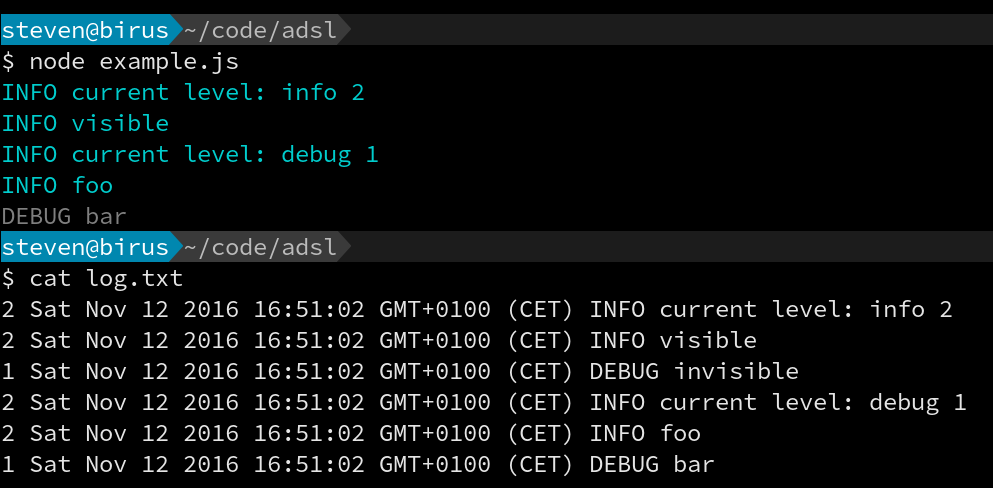
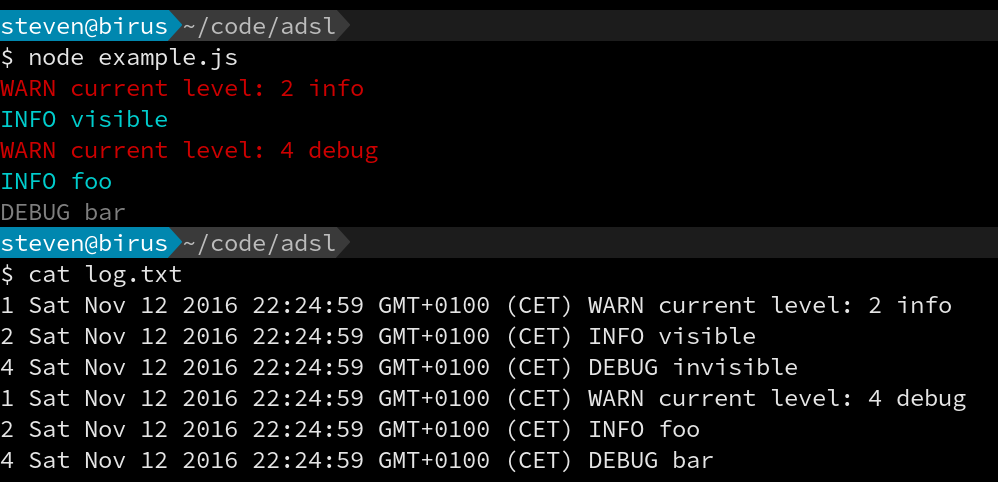
Update example

Changed region(s): [[0.0, 0.0, 1.0, 0.5913], [0.0, 0.5913, 0.9678, 0.778], [0.0, 0.8091, 0.9678, 0.9959]]

diff --git a/example.js b/example.js
@@ -34,13 +34,13 @@ const log = adsl({
   ]
 })
 
-log.info('current level:', log.level, log.levelIndex)
+log.warn('current level:', log.levelIndex, log.level)
 log.info('visible')
 log.debug('invisible')
 
 log.level = 'debug'
 
-log.info('current level:', log.level, log.levelIndex)
+log.warn('current level:', log.levelIndex, log.level)
 log.info('foo')
 log.debug('bar')
 

diff --git a/README.md b/README.md
@@ -58,7 +58,7 @@ var logWriteStream = fs.createWriteStream('log.txt')
 
 const log = adsl({
   level: 'info',
-  prefix(level) {
+  prefix (level) {
     return level.toUpperCase()
   },
   transport: [
@@ -74,13 +74,13 @@ const log = adsl({
   ]
 })
 
-log.info('current level:', log.level, log.levelIndex)
+log.warn('current level:', log.levelIndex, log.level)
 log.info('visible')
 log.debug('invisible')
 
 log.level = 'debug'
 
-log.info('current level:', log.level, log.levelIndex)
+log.warn('current level:', log.levelIndex, log.level)
 log.info('foo')
 log.debug('bar')
 
